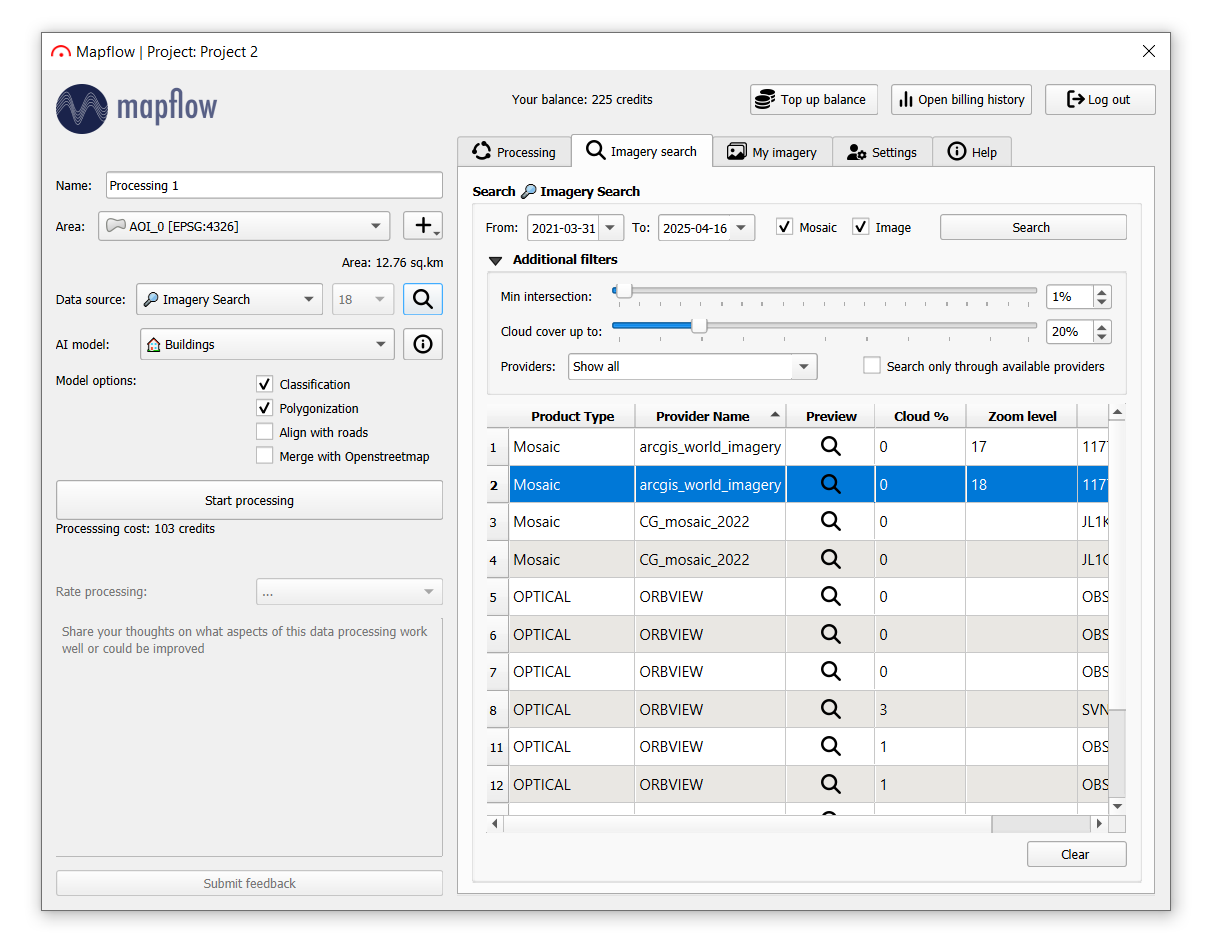
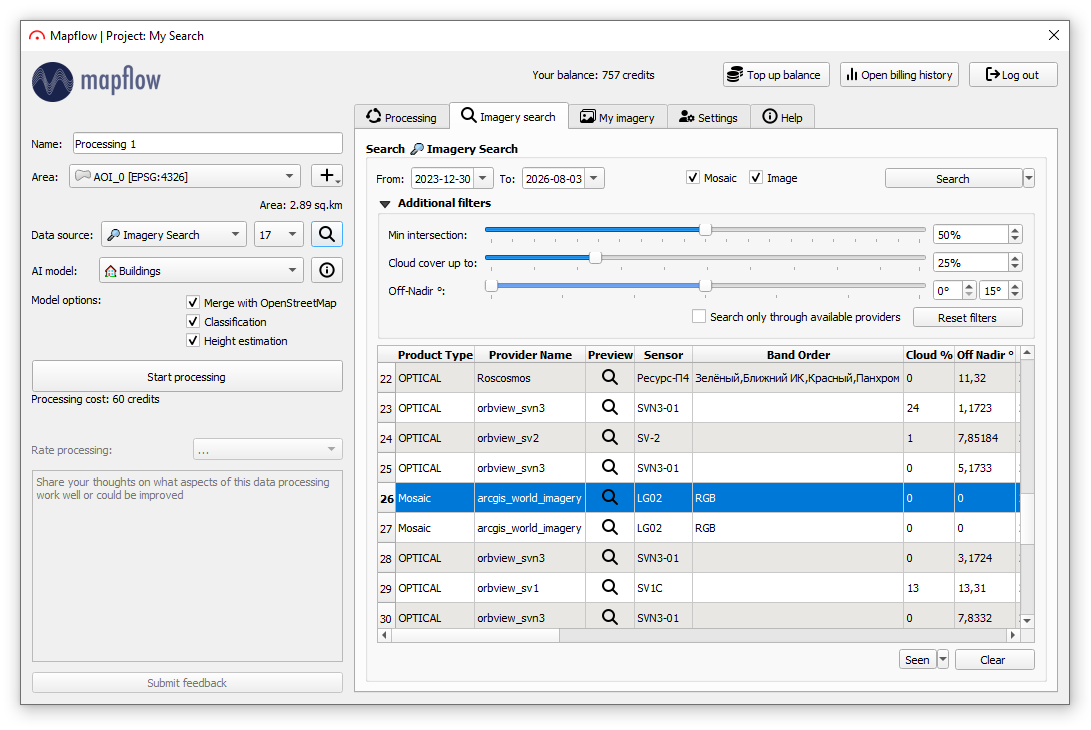
add plugin v3.6.0 (planned search)

Changed region(s): [[0.0, 0.0, 0.9973, 0.9945], [0.8103, 0.211, 0.9038, 0.2712]]

diff --git a/source/userguides/imagery_search.rst b/source/userguides/imagery_search.rst
@@ -267,7 +267,7 @@ You can add a new AOI to an existing search, modify the geometry, or delete area
 |
 
 Using Mapflow Imagery Search in QGIS
-^^^^^^^^^^^^^^^^^^^^^^^^^^^^^^^^^^^^^^^^^^^^
+~~~~~~~~~~~~~~~~~~~~~~~~~~~~~~~~~~~~~
 
 1. Switch to the tab "Imagery Search". To start the search, set the dates and the product type filters ("Mosaic" – Imagery basemaps like ArcGIS or Global mosaic and/or "Images" - Satellite imagery archives)
 2. Set additional filters like a minimum intersection with your area of analysis.
@@ -291,3 +291,159 @@ Using Mapflow Imagery Search in QGIS
 
 .. seealso::
    👉 See :ref:`Mapflow <> QGIS` for more information on how to use Imagery Search in Mapflow Web and QGIS plugin.
+
+Planned Search in QGIS
+~~~~~~~~~~~~~~~~~~~~~~
+
+**Planned Search** is a recurring background search. You define the search area and parameters once, and Mapflow keeps looking for new imagery over that area - you will be notified when new images are found. The search runs in the background, so you can keep working with the plugin in the meantime, review the results at any time and start processing directly from them.
+
+Creating a planned search
+""""""""""""""""""""""""""
+
+1. Switch to the **Imagery Search** tab and set the area of interest: draw it on the map or select an existing polygon layer (for example, a GeoJSON file loaded into QGIS). If the layer has a ``name`` attribute, it will be used as the AOI name. AOI names can also be assigned or changed later.
+2. Set the search parameters: date range, cloud cover, off-nadir angle, minimum intersection, product types and providers.
+3. Specify the search name in the **Processing name** field.
+4. Open the **Search** button menu and choose **Plan search**.
+
+.. figure:: _static/planned_search_menu.png
+         :align: center
+         :class: with-border
+         :width: 18cm
+
+|
+
+The planned search is created and starts running in the background. It will keep looking for new imagery over the selected areas, and you will be notified when results are ready.
+
+The planned search appears in the **Processing** table with the workflow **"Planned"**. Its status reflects the search state:
+
+* **Searching** – the initial search is in progress;
+* **Created / Updated** – the search is active and being checked for new imagery (the number of new images, e.g. *Updated (3)*, is shown when there are any);
+* **Inactive** – the search is paused;
+* **Failed** – the search failed and can be restarted.
+
+.. figure:: _static/planned_search_table.png
+         :align: center
+         :class: with-border
+         :width: 16cm
+
+|
+
+.. note::
+   If the area of interest is too large for an immediate search, clicking **Search** will prompt you to create a planned search instead - the search area would take too long to process synchronously. Confirm with **Plan Search**, and the planned search will be created and run in the background.
+
+  .. figure:: _static/planned_search_prompt.png
+           :align: center
+           :class: with-border
+           :width: 11cm
+
+Opening a planned search
+"""""""""""""""""""""""""
+
+.. |right_arrow| image:: ../api/_static/qgis/right_arrow.png
+    :width: 0.7cm
+    :class: no-scaled-link
+
+Select the planned search in the **Processing** table and click the |right_arrow| navigation button (or double-click the row). The plugin enters the planned search view: the table now shows the search AOIs, each followed by the processings that were launched for it, and the **"No AOI"** group for processings not linked to any area.
+
+.. figure:: _static/planned_search_aois.png
+         :align: center
+         :class: with-border
+         :width: 16cm
+
+|
+
+The AOI rows show the aggregate status of their processings (*OK (n)*, *In progress*, *Failed*). On the map, the planned search is displayed in a dedicated group in the Layers panel — each AOI and its processings are grouped together, and processings not tied to any AOI appear on the map when you click them.
+
+.. figure:: _static/planned_search_map.png
+         :align: center
+         :class: with-border
+         :width: 16cm
+
+|
+
+Viewing the search results
+""""""""""""""""""""""""""""
+
+Open the planned search and switch to the **Imagery Search** tab. The table shows the images found for **all** AOIs of the planned search. To display results only for specific areas, select the corresponding AOI rows in the processings table - the results are updated automatically.
+
+New images are marked with the **(!)** sign. You can mark the selected new images as seen with the **Seen** button, or mark all of them with **Seen all** - the label will disappear.
+
+.. figure:: _static/planned_search_results.png
+         :align: center
+         :class: with-border
+         :width: 16cm
+
+|
+
+You can also adjust the search criteria of the existing planned search: change the filters (dates, cloud cover, off-nadir angle, intersection, providers) on the **Imagery Search** tab and click **Update search** — the new parameters are saved to the planned search, and the results are re-fetched with them. The results can be sorted by clicking the column headers.
+
+Running processing from the search results
+""""""""""""""""""""""""""""""""""""""""""""""
+
+Select one or several images in the results table and click **Start planned processing** - the processing will be launched from the selected imagery, linked to this planned search. The new processing appears in the processings table grouped under the AOI it intersects, and its footprint is displayed on the map.
+
+.. figure:: _static/planned_search_run_processing.gif
+         :align: center
+         :class: with-border
+         :width: 16cm
+
+|
+
+Managing the search AOIs
+""""""""""""""""""""""""""
+
+Select an AOI row and open the options menu (the "..." button next to *View results*):
+
+* **Rename AOI** – assign a new name to the area;
+* **Delete AOI** – remove the area from the search;
+* **Add AOI from layer…** – add new areas from polygon layers in your QGIS project (for example, a GeoJSON file);
+* **Draw AOI on the map** – draw a new area with the QGIS add-feature tool and save it;
+* **Update selected AOI** – edit the geometry of the area right on the map (move the vertices, then click **Save AOI**);
+* **Exclude from search** – remove the already processed area from the search AOI (available on a processing row): the footprint of the processing is subtracted from every AOI it intersects, so this area will no longer be searched for new imagery.
+
+.. figure:: _static/planned_search_aoi_menu.png
+         :align: center
+         :class: with-border
+         :width: 13cm
+
+|
+
+After any AOI change the search is updated, and the search results are synchronized accordingly. Take a look at AOI management in action:
+
+.. figure:: _static/planned_search_edit_aoi.gif
+         :align: center
+         :class: with-border
+         :width: 16cm
+
+|
+
+.. note::
+   **Exclude from search** is a convenient way to gradually free up the search from already processed areas whose search results you no longer need.
+
+  .. figure:: _static/planned_search_exclude.gif
+           :align: center
+           :class: with-border
+           :width: 13cm
+
+Pausing, resuming and restarting a planned search
+""""""""""""""""""""""""""""""""""""""""""""""""""""
+
+Select the planned search in the **Processing** table and open the options menu:
+
+* **Pause** – stops the background search: no more updates on newly found images, but the search results remain available and you can still run processing from them;
+* **Resume** – activates the paused search again;
+* **Restart** – re-runs the search that failed.
+
+.. figure:: _static/planned_search_menu_actions.png
+         :align: center
+         :class: with-border
+         :width: 13cm
+
+|
+
+Planned search limits
+"""""""""""""""""""""""""
+
+* If the search area is too large for an immediate search, you will be prompted to create a planned search automatically (see above).
+* On the free plan you cannot create a planned search larger than **1000 km²**.
+* On the free plan you can have up to **2 active** planned searches. If you exceed this limit, new searches can still be created, but they will be added in a **paused** state. Upgrade your plan to resume them and create new active searches.

diff --git a/source/api/qgis_mapflow.rst b/source/api/qgis_mapflow.rst
@@ -99,6 +99,8 @@ The main window contains 5 tabs:
 
 This tab is divided into two parts. First, you will see a list of your projects. Here you can create, edit, and delete projects using the buttons at the bottom of the panel. Various sorting options and a search for a project by name are also available.
 
+Each project in the list is accompanied by its **State** column, which combines the counts of **succeeded** processings, **failed** processings and **planned** processings (Planned searches) using separate icons.
+
 .. figure:: _static/qgis/project_tab.png
          :alt: View of the project tab
          :align: center
@@ -201,10 +203,12 @@ In some cases, a button will appear next to the **Data provider**. You can use i
 2. Imagery search
 ~~~~~~~~~~~~~~~~~~~
 
+.. SCREENSHOT NEEDED: re-capture the Imagery Search tab to include the new "Off-Nadir" two-boundary slider in the "Additional filters" area
+
 .. figure:: _static/qgis/imagery_search_tab.png
          :alt: View of the imagery search tab
          :align: center
-         :width: 18cm
+         :width: 16cm
          :class: with-border
 
 |
@@ -227,6 +231,8 @@ In some cases, a button will appear next to the **Data provider**. You can use i
      - Use to set the minimum intersection rate between the image and the area of interest.
    * - Cloud cover
      - Use to set the minimum percentage of image cloudiness.
+   * - Off-Nadir
+     - Use the two-boundary slider to show only images within the selected off-nadir angle range (0–30°). Images outside the range are hidden from the results.
    * - Providers
      - Here you can select which providers will be searched.
    * - "Search only..."
@@ -435,6 +441,16 @@ Besides, you can create a new vector layer or add existing AOI into QGIS project
          :align: center
          :width: 15cm
          :class: with-border no-scaled-link
+
+.. note::
+   Before starting, the plugin checks the **area limits of your plan**: the bounding box of each AOI and the total processing area are verified, and if the limit is exceeded the *Start processing* button is blocked.
+
+   .. figure:: _static/qgis/bbox_limit.png
+            :align: center
+            :class: with-border
+            :width: 11cm
+
+            \* Dash line is the actual AOI bbox
 
 
 Use of commercial satellite imagery providers
